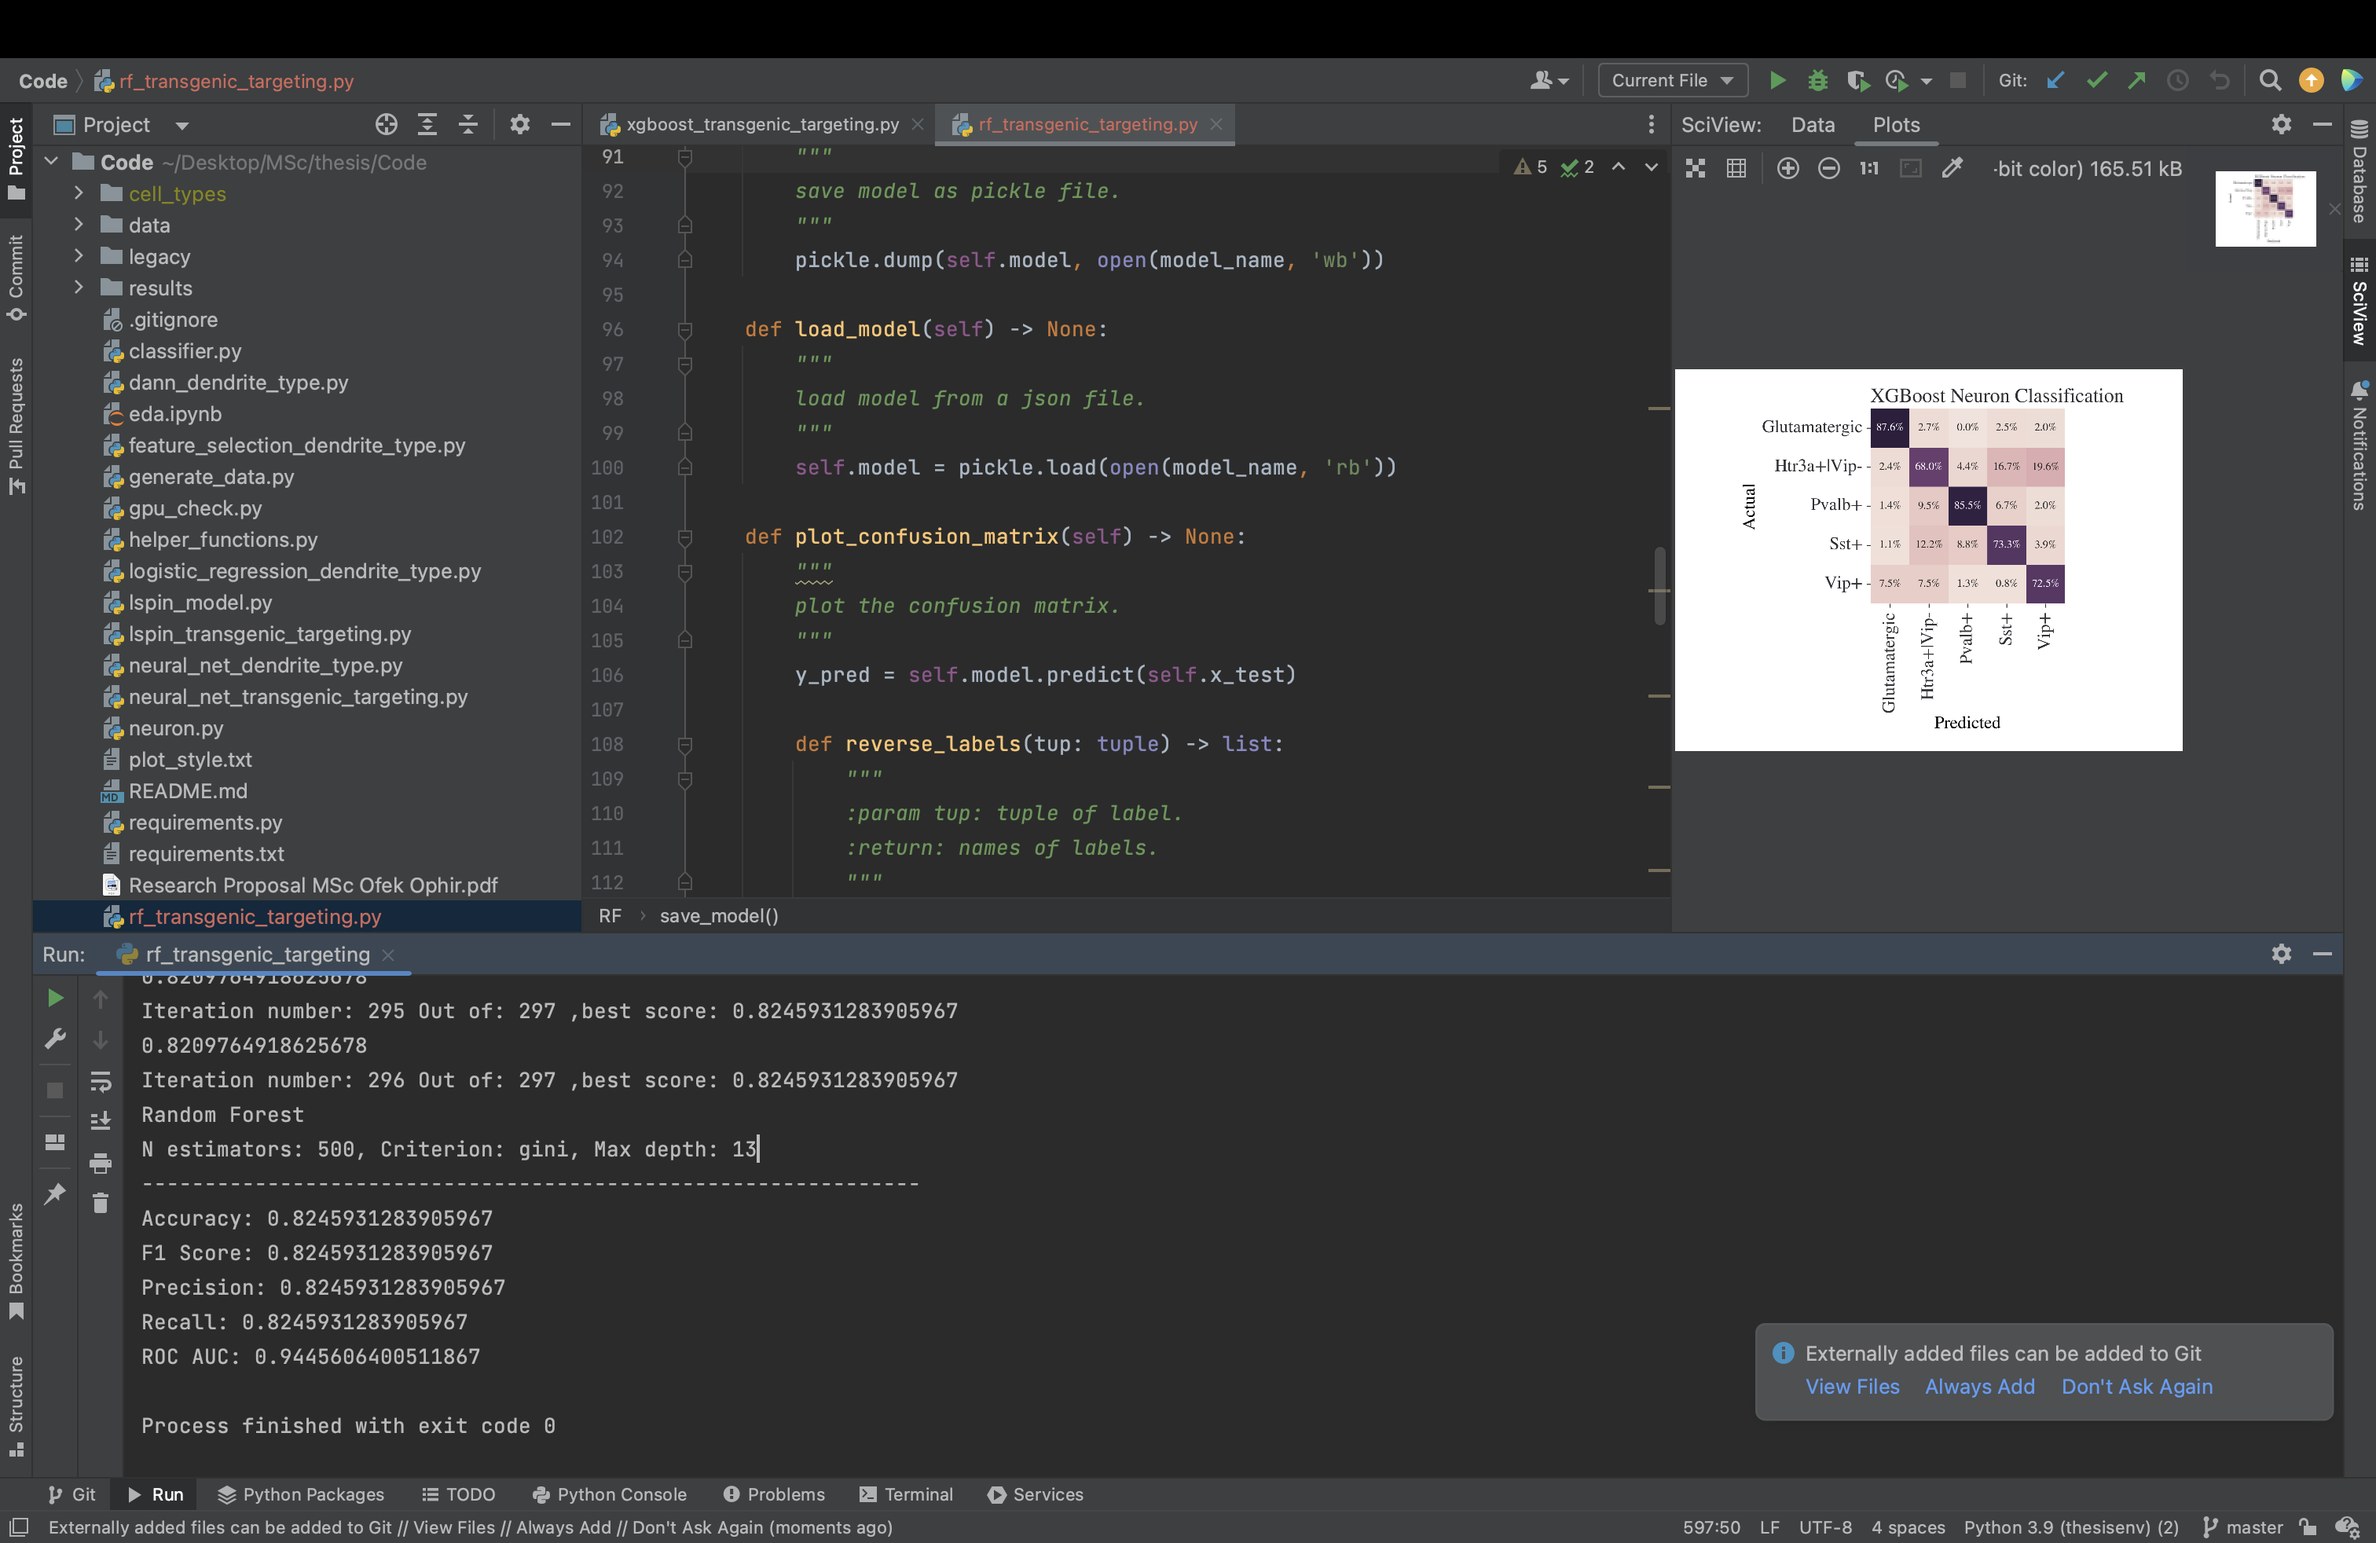
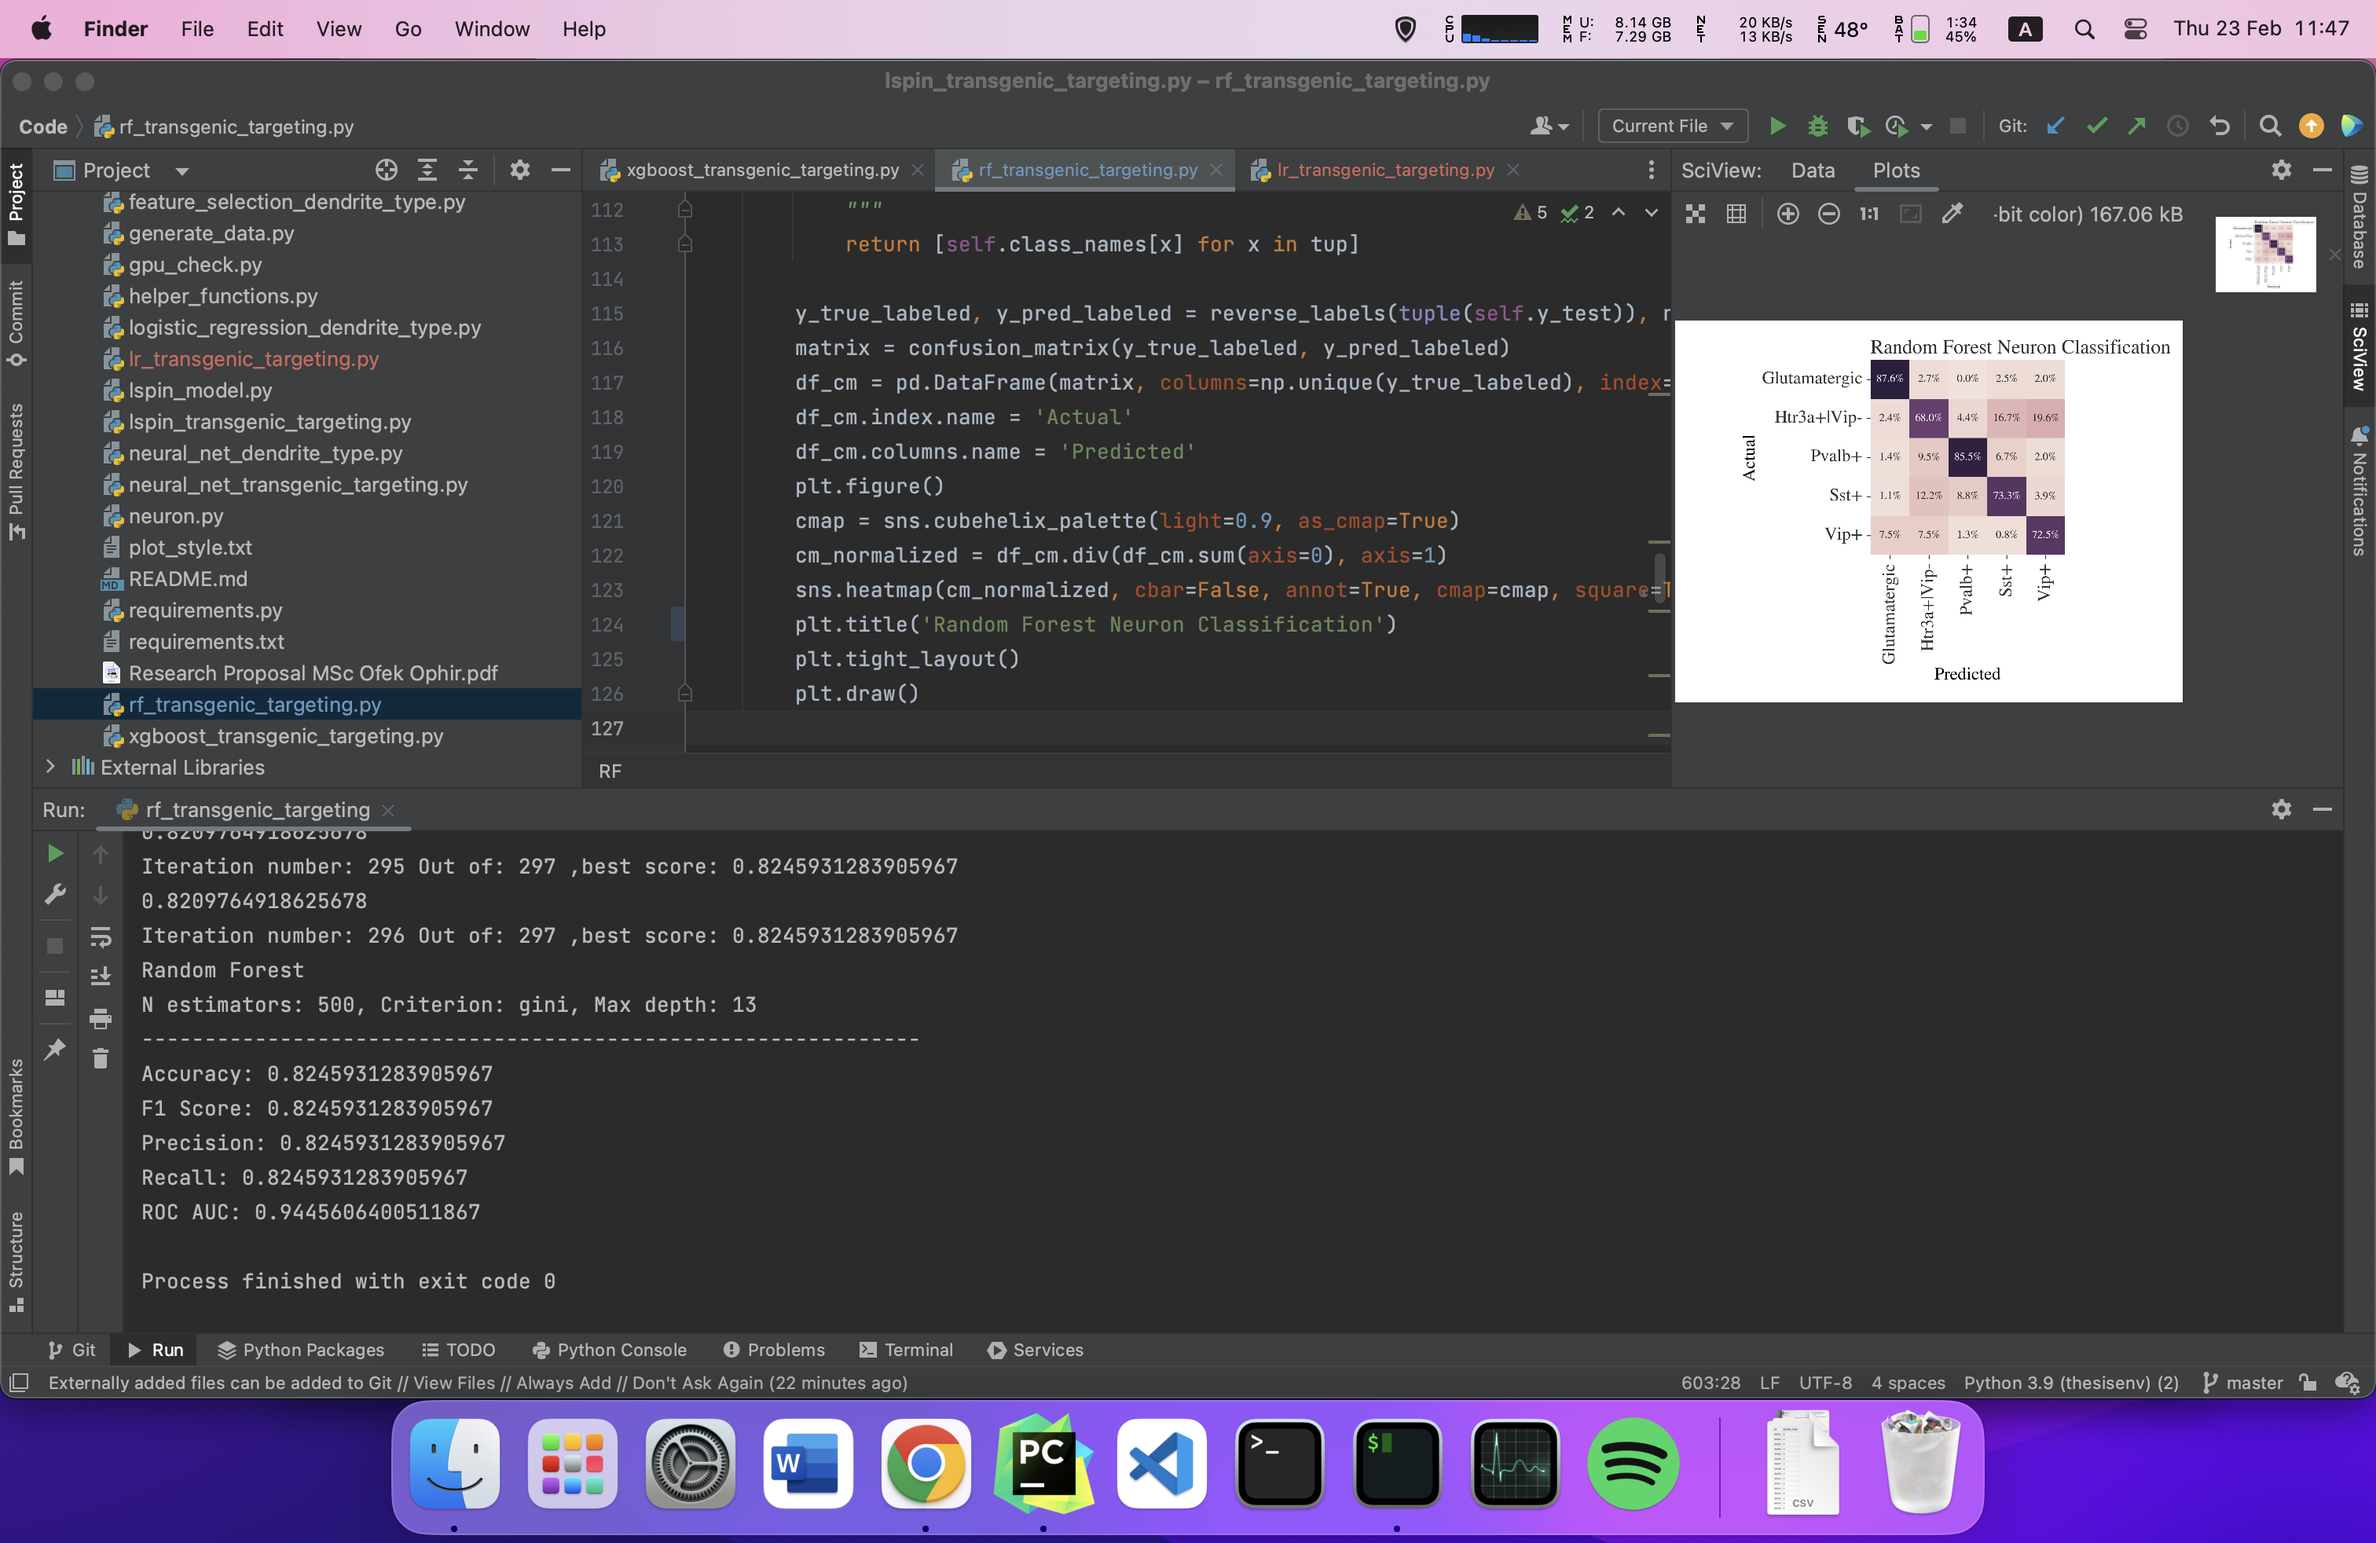
bugfix in plot

diff --git a/rf_transgenic_targeting.py b/rf_transgenic_targeting.py
@@ -121,7 +121,7 @@ class RF:
         cmap = sns.cubehelix_palette(light=0.9, as_cmap=True)
         cm_normalized = df_cm.div(df_cm.sum(axis=0), axis=1)
         sns.heatmap(cm_normalized, cbar=False, annot=True, cmap=cmap, square=True, fmt='.1%', annot_kws={'size': 10})
-        plt.title('XGBoost Neuron Classification')
+        plt.title('Random Forest Neuron Classification')
         plt.tight_layout()
         plt.draw()
 
